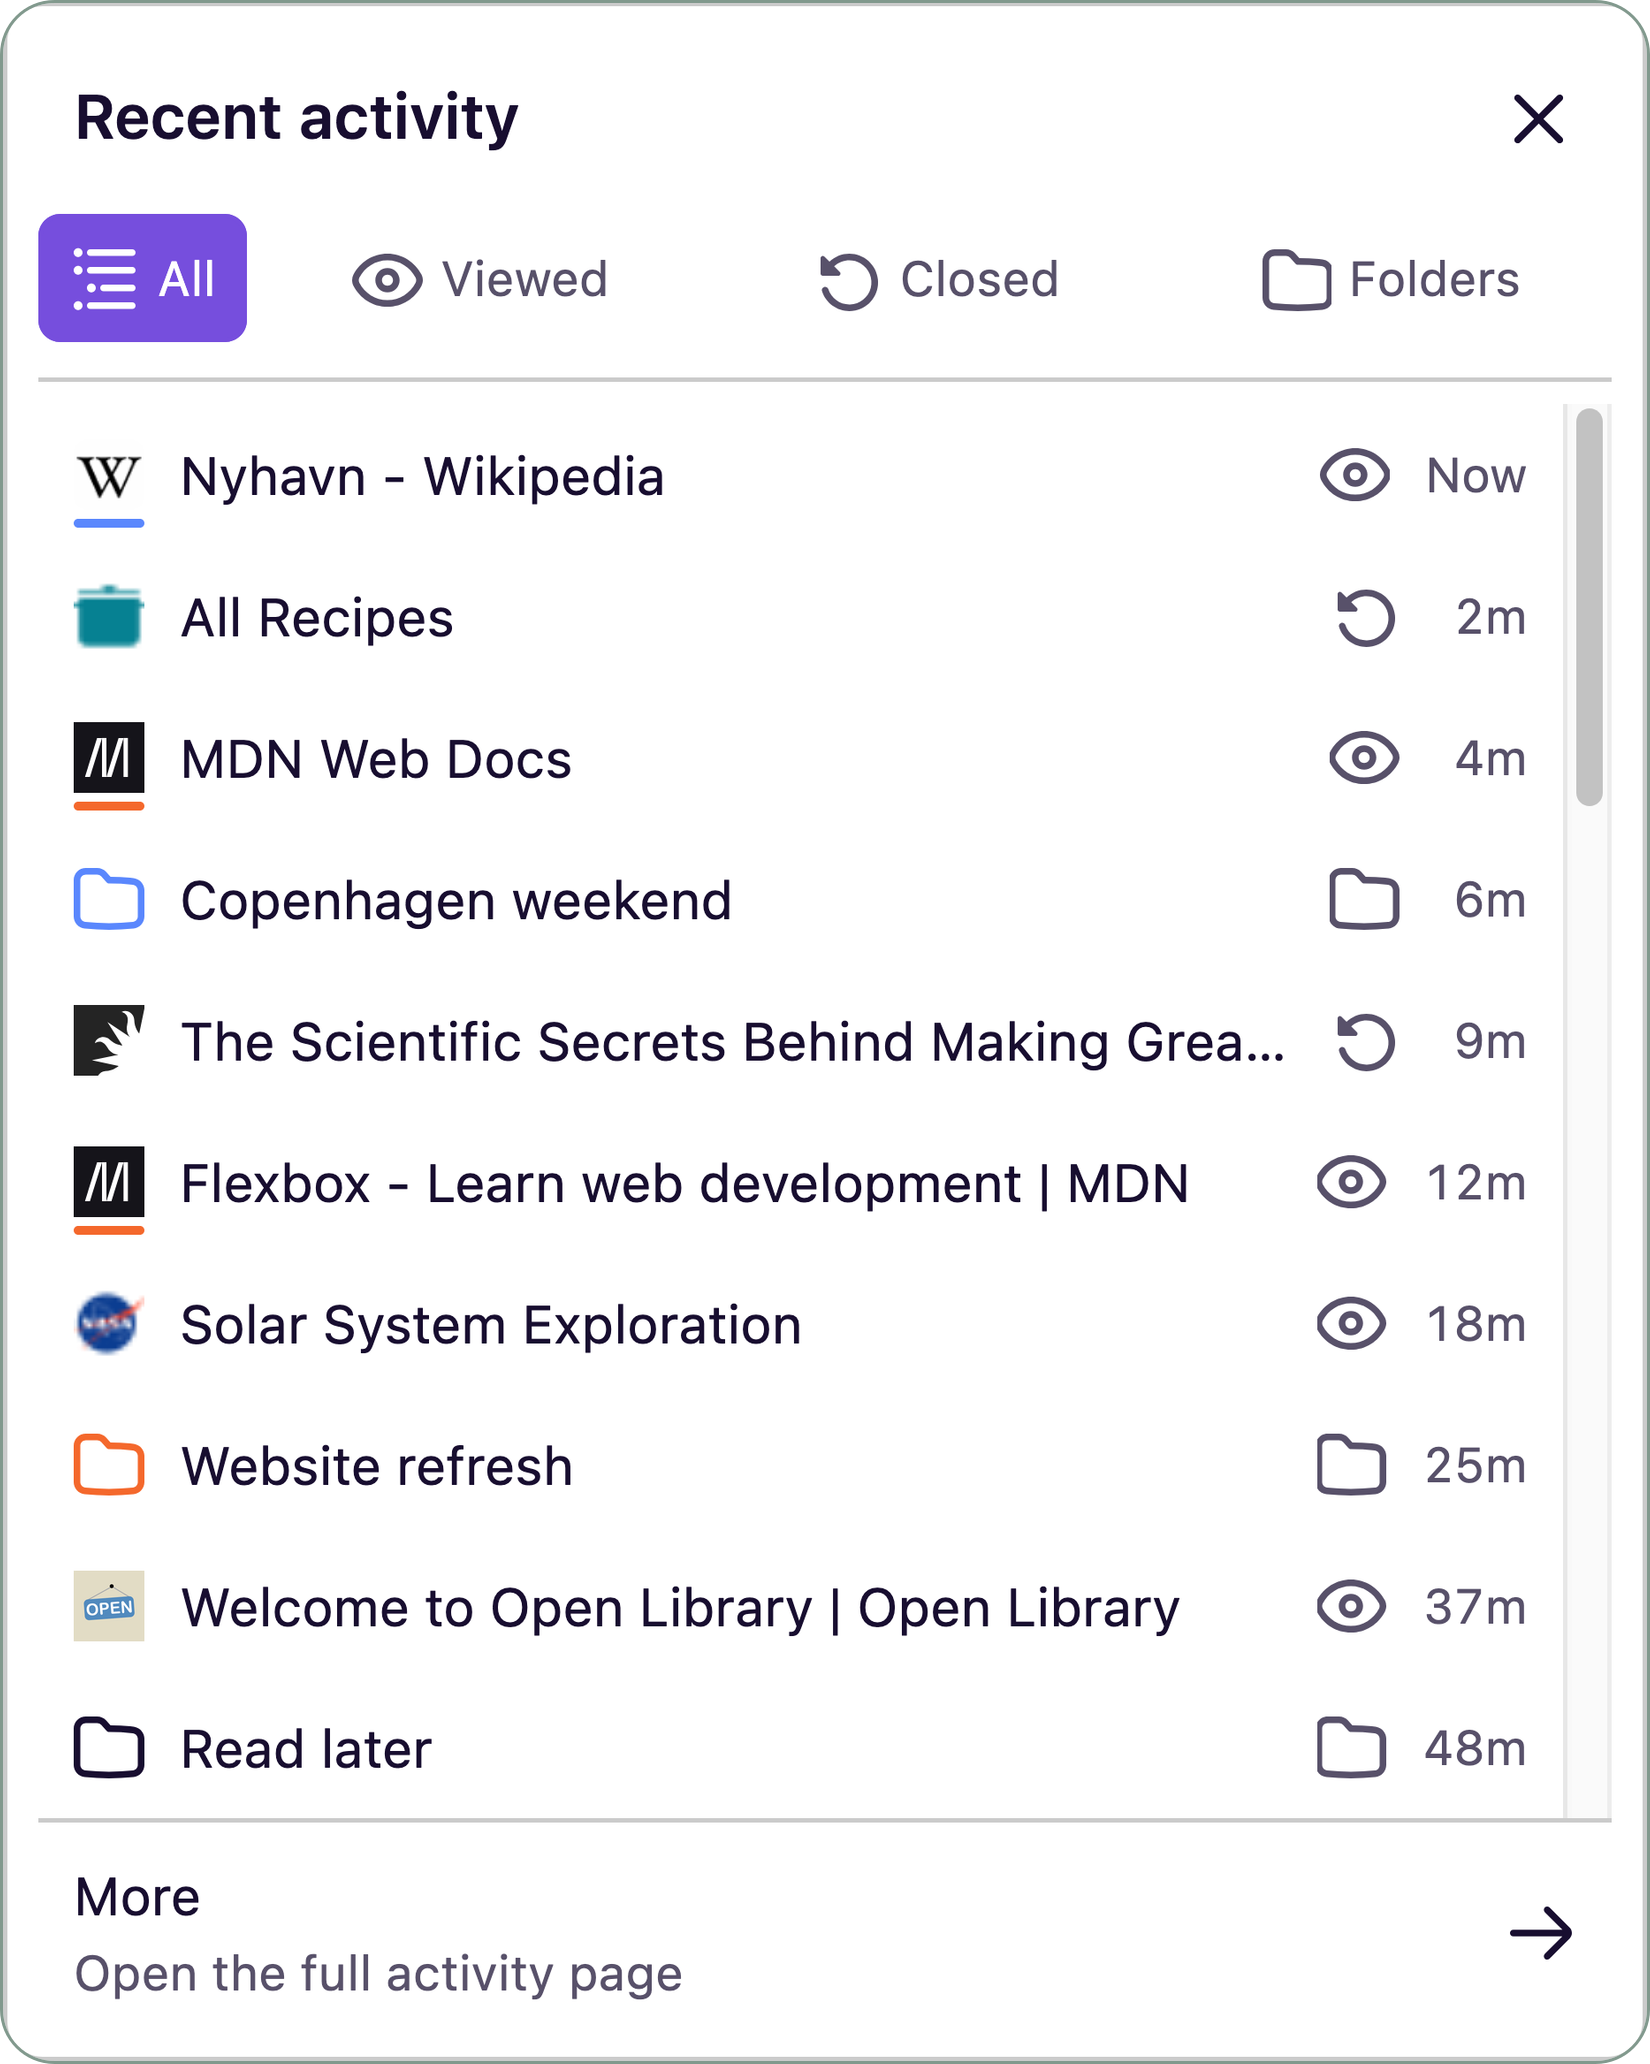
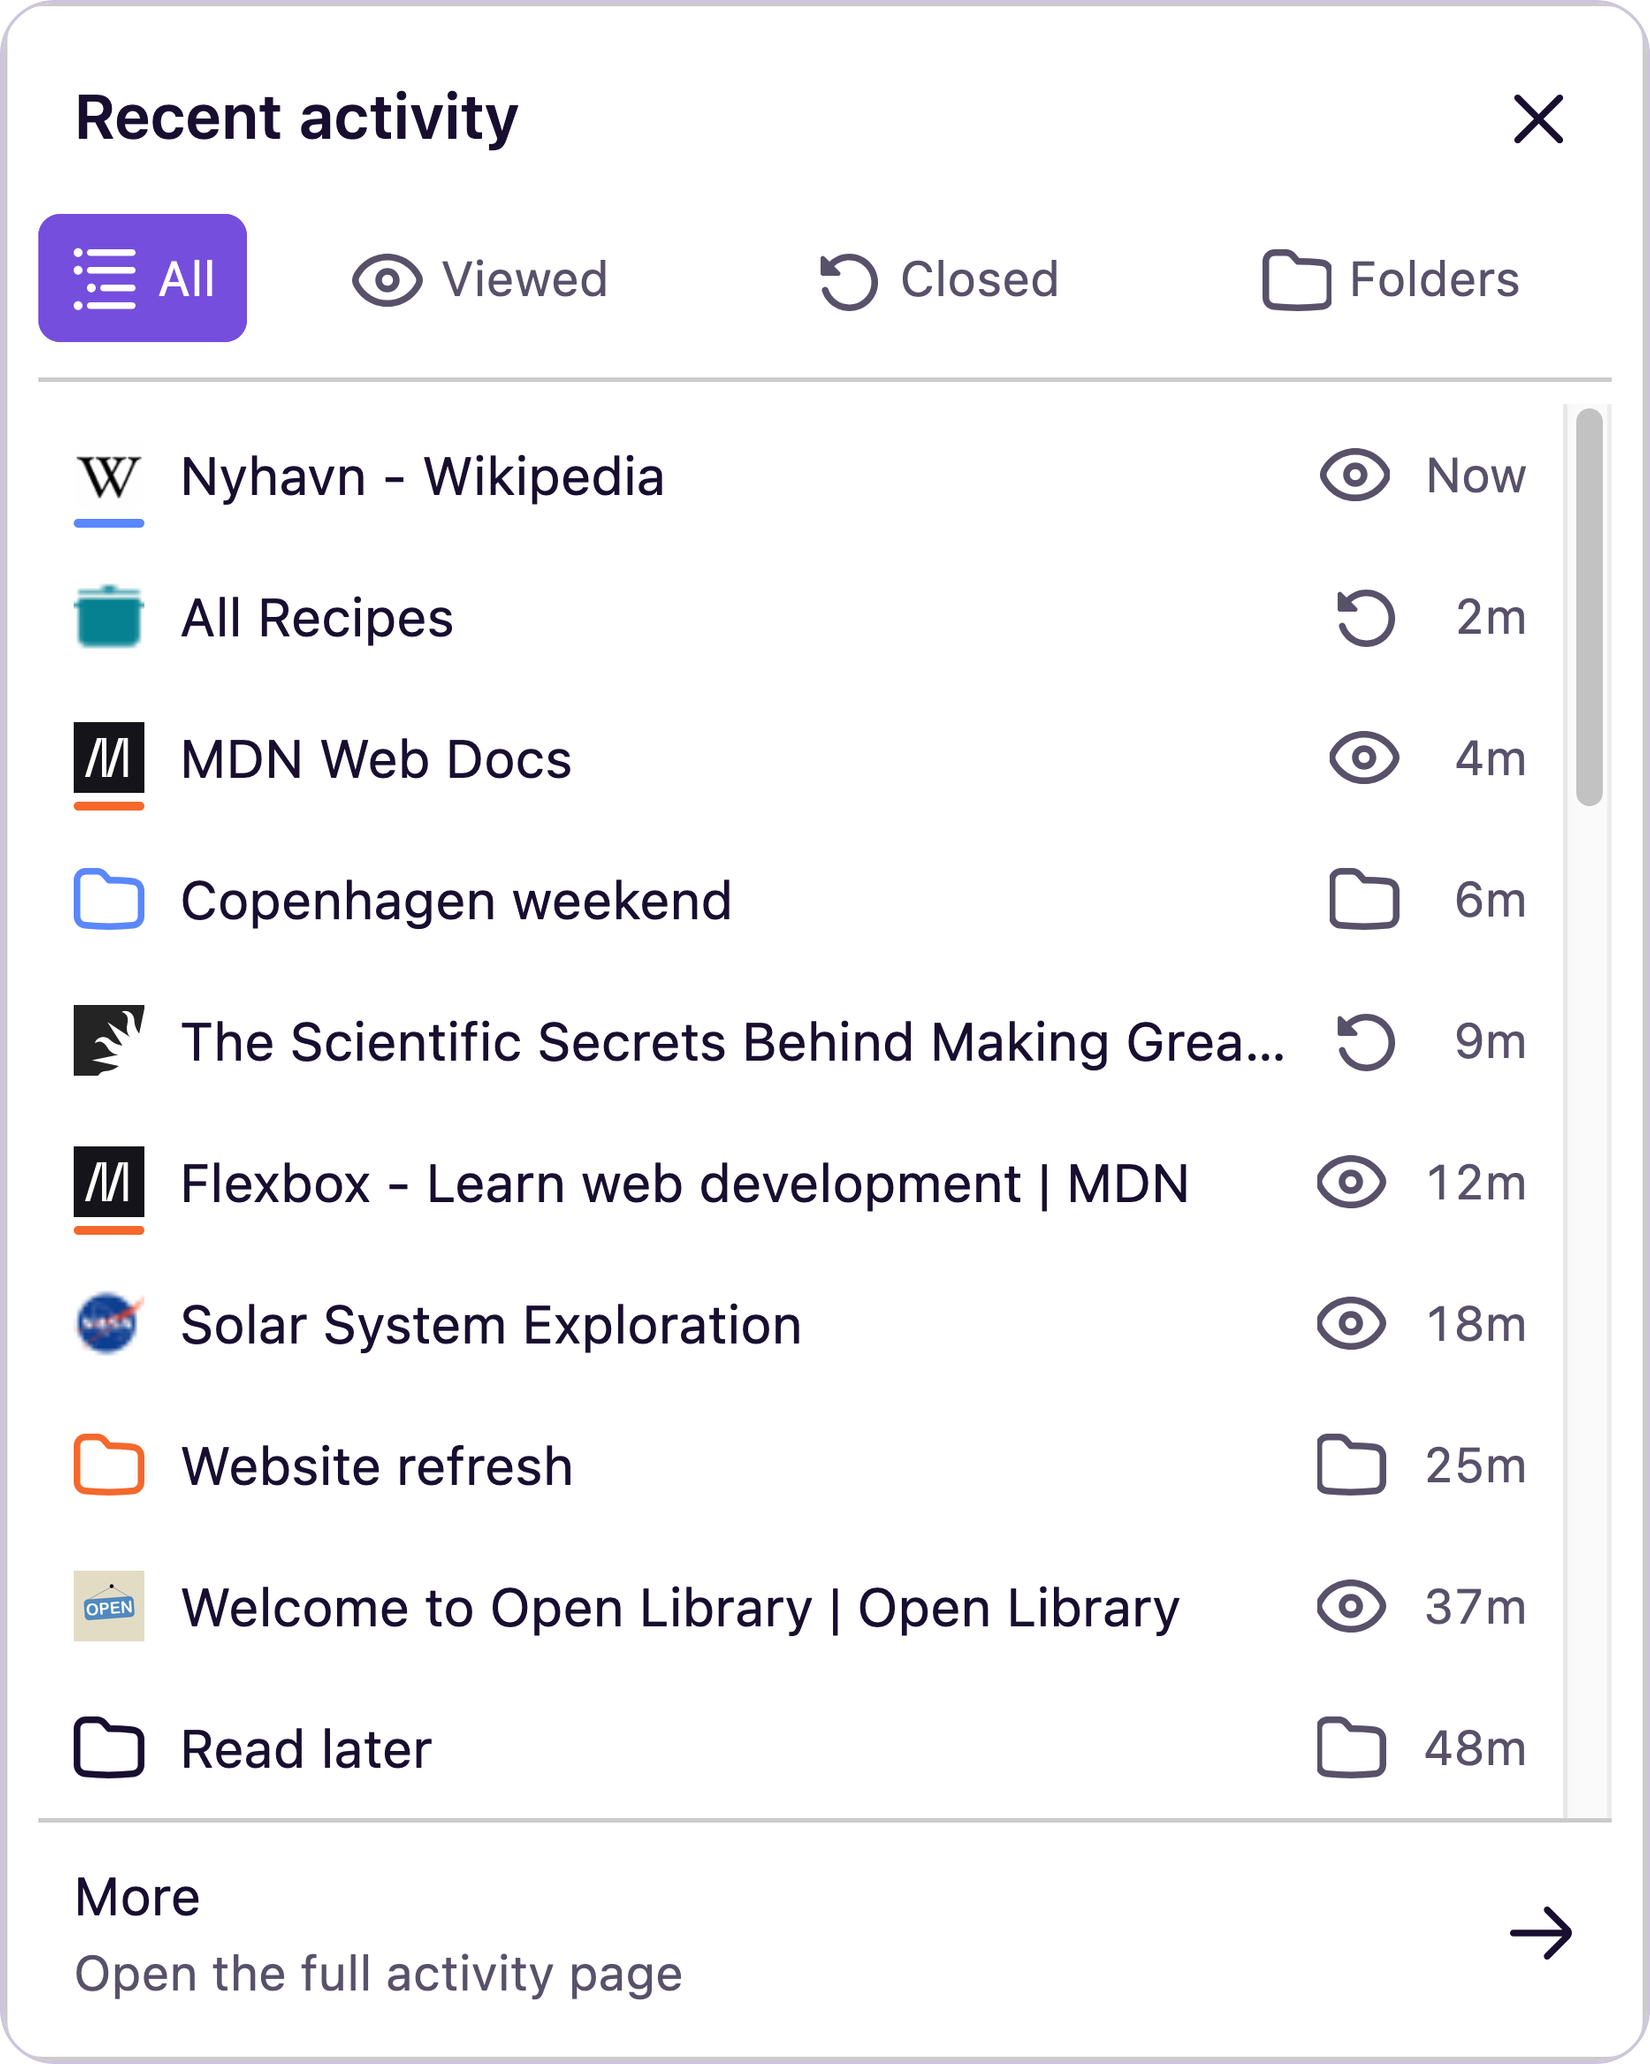
Update screenshot borders

Changed region(s): [[0.9891, 0.0, 1.0, 0.9922], [0.0, 0.9922, 0.9891, 1.0]]

diff --git a/scripts/export-screenshots.js b/scripts/export-screenshots.js
@@ -2,7 +2,7 @@ import assert from 'node:assert/strict';
 import { mkdir, readFile, writeFile } from 'node:fs/promises';
 import { join } from 'node:path';
 import sharp from 'sharp';
-import { fitScreenshotImage } from './screenshot-layout.js';
+import { fitScreenshotImage, screenshotFrameColor } from './screenshot-layout.js';
 
 const fixture = JSON.parse(
   await readFile(process.argv[4] || 'assets/screenshots/screenshots.json', 'utf8'),
@@ -98,11 +98,11 @@ for (const [index, shot] of fixture.shots.entries()) {
     .webp({ lossless: true, effort: 6 })
     .toFile(join(destination, shot.file.replace('.png', '.webp')));
 
-  // Retain the existing one-pixel green frame on standalone website images.
+  // A quiet lavender-grey frame follows the screenshot's light or dark palette.
   const uiWidth = px(image.width + 2);
   const uiHeight = px(imageHeight + 2);
   const frame = Buffer.from(
-    `<svg width="${uiWidth}" height="${uiHeight}"><rect x="${outputScale / 2}" y="${outputScale / 2}" width="${uiWidth - outputScale}" height="${uiHeight - outputScale}" rx="${px(17.5)}" fill="none" stroke="#81998d" stroke-width="${outputScale}"/></svg>`,
+    `<svg width="${uiWidth}" height="${uiHeight}"><rect x="${outputScale / 2}" y="${outputScale / 2}" width="${uiWidth - outputScale}" height="${uiHeight - outputScale}" rx="${px(17.5)}" fill="none" stroke="${screenshotFrameColor(dark)}" stroke-width="${outputScale}"/></svg>`,
   );
   const standalone = await sharp({
     create: { width: uiWidth, height: uiHeight, channels: 4, background: '#00000000' },

diff --git a/scripts/screenshot-output.js b/scripts/screenshot-output.js
@@ -2,6 +2,7 @@ import assert from 'node:assert/strict';
 import { mkdir, readFile, rename, rm, writeFile } from 'node:fs/promises';
 import { join } from 'node:path';
 import sharp from 'sharp';
+import { screenshotFrameColor } from './screenshot-layout.js';
 
 export function screenshotFiles(fixture) {
   return fixture.shots.flatMap(({ file }) => [
@@ -43,10 +44,17 @@ export async function verifyScreenshots(fixture, sources, destination) {
     assert.equal(ui.info.height, h + outputScale * 2);
     assert.equal(ui.data[3], 0, `${uiFile}: corners must be transparent`);
     const border = (ui.info.width + Math.floor(ui.info.width / 2)) * 4;
+    const borderColor = screenshotFrameColor(shot.composition.dark);
     assert.deepEqual(
       [...ui.data.subarray(border, border + 4)],
-      [129, 153, 141, 255],
-      `${uiFile}: missing fine green border`,
+      [
+        ...borderColor
+          .slice(1)
+          .match(/../g)
+          .map((value) => parseInt(value, 16)),
+        255,
+      ],
+      `${uiFile}: missing ${borderColor} frame`,
     );
     // Exclude only the rounded mask and frame. The entire rectangular interior
     // must match the real capture after the exporter's normal downsampling.

diff --git a/scripts/screenshot-layout.js b/scripts/screenshot-layout.js
@@ -1,5 +1,7 @@
 import assert from 'node:assert/strict';
 
+export const screenshotFrameColor = (dark) => (dark ? '#625873' : '#cdc5dc');
+
 // Rectangles come from Firefox; only the presentation crop changes, never the UI.
 export function resolveScreenshotCrop(framing, measured, sourceOrigin) {
   let left = 0,
